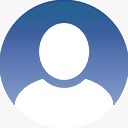
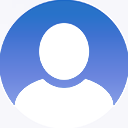
#40 T46: Cambio de Imagenes a Perfiles Genéricos
Se han cambiado los íconos de perfil a perfiles genéricos de distintos colores

diff --git a/frontend/src/app/views/proyectos/gestion/gestion.component.html b/frontend/src/app/views/proyectos/gestion/gestion.component.html
@@ -31,7 +31,7 @@
                     </div>
                     <div class="text-center">
                         <div class="avatar box-shadow-2 mb-3">
-                            <img src="assets/images/faces/6.jpg" alt="">
+                            <img src="assets/images/faces/generic-profile2.png" alt="">
                         </div>
                         <h5 class="m-0">{{ item.scrum_master }}</h5>
                         <p class="mt-0">{{ (item.project_manager) ? item.project_manager.name + " " + item.project_manager.surname : 'No asignado' }}</p>

diff --git a/frontend/src/app/views/proyectos/project/project.component.html b/frontend/src/app/views/proyectos/project/project.component.html
@@ -52,7 +52,7 @@
 												<div *ngFor="let miembro of equipo"
 													class="d-flex align-items-center border-bottom-dotted-dim pb-3 mb-3">
 													<img class="avatar-md rounded mr-3"
-														src="./assets/images/faces/2.jpg" alt="">
+														src="./assets/images/faces/generic-profile3.png" alt="">
 													<div class="flex-grow-1">
 														<h6 class="m-0">{{miembro.project_role}}</h6>
 														<p class="m-0 text-small text-muted">{{miembro.name + " " + miembro.surname}}</p>
